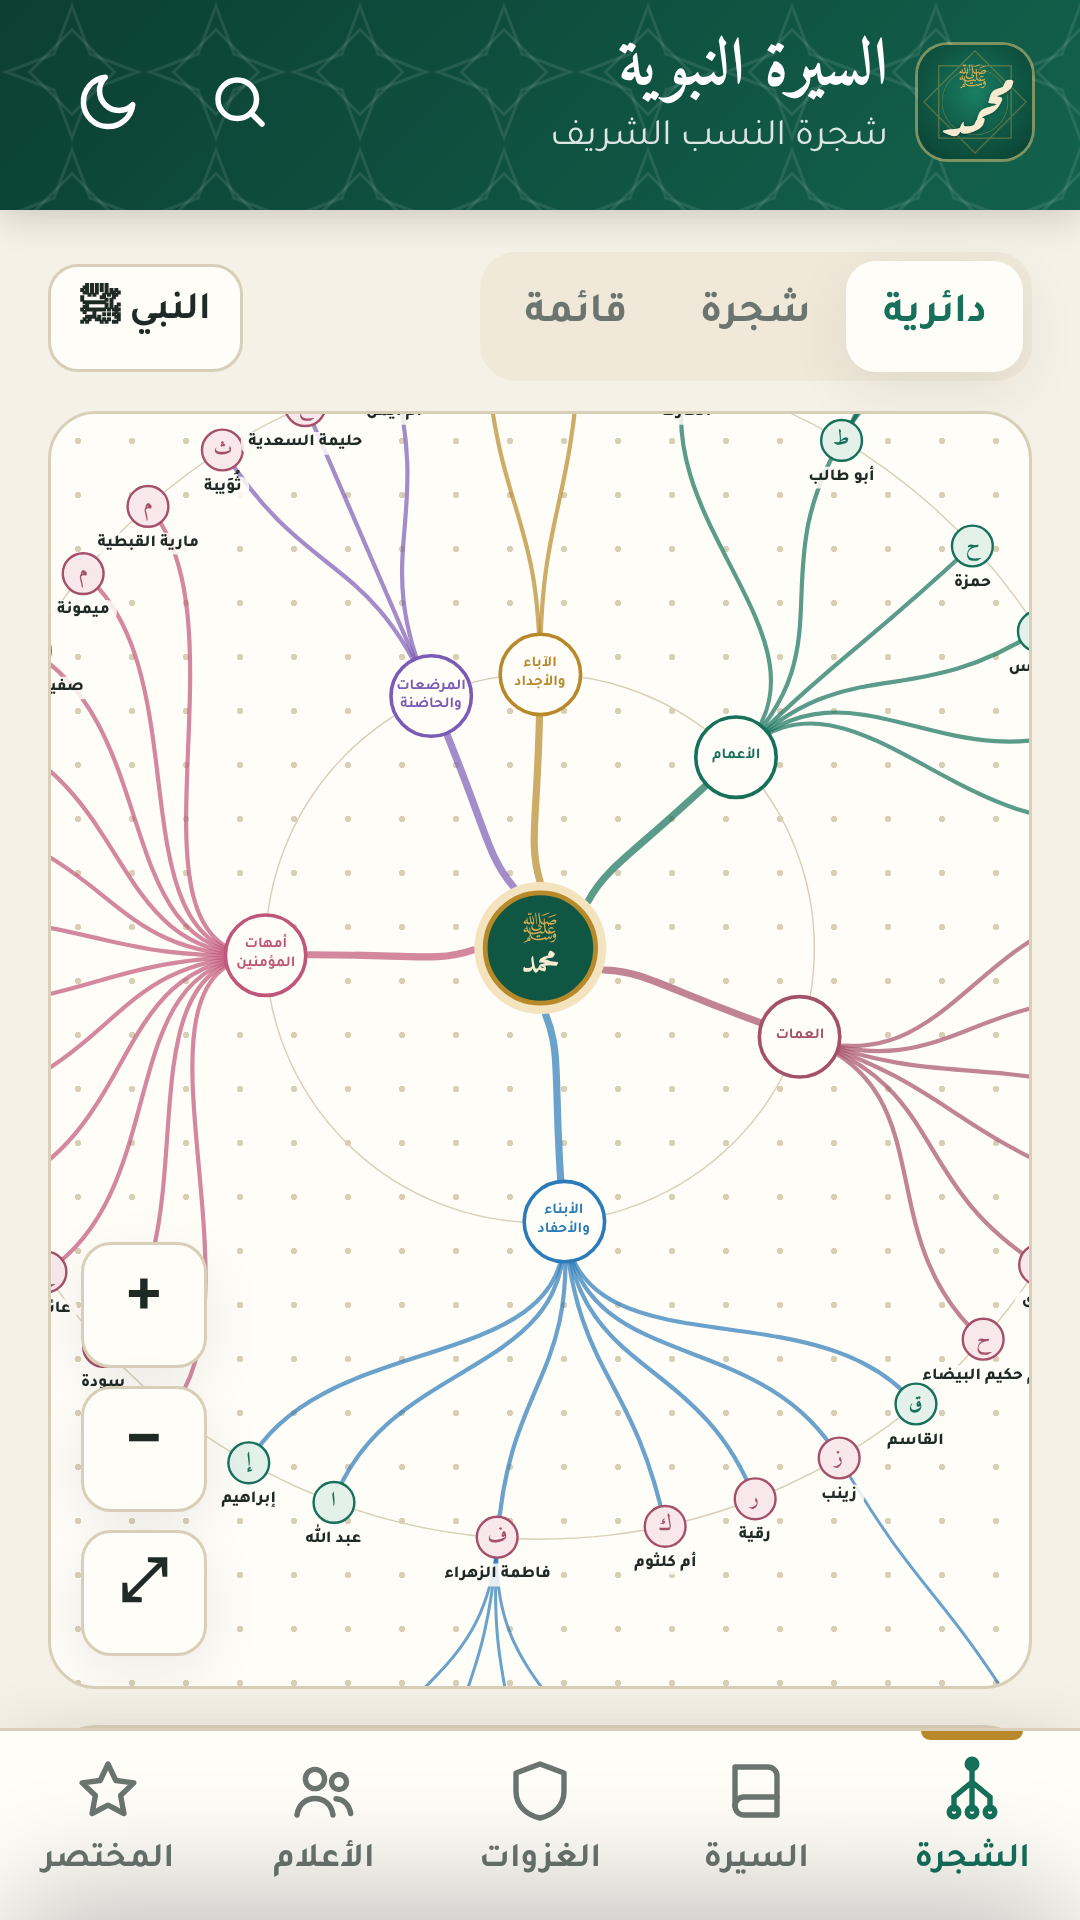
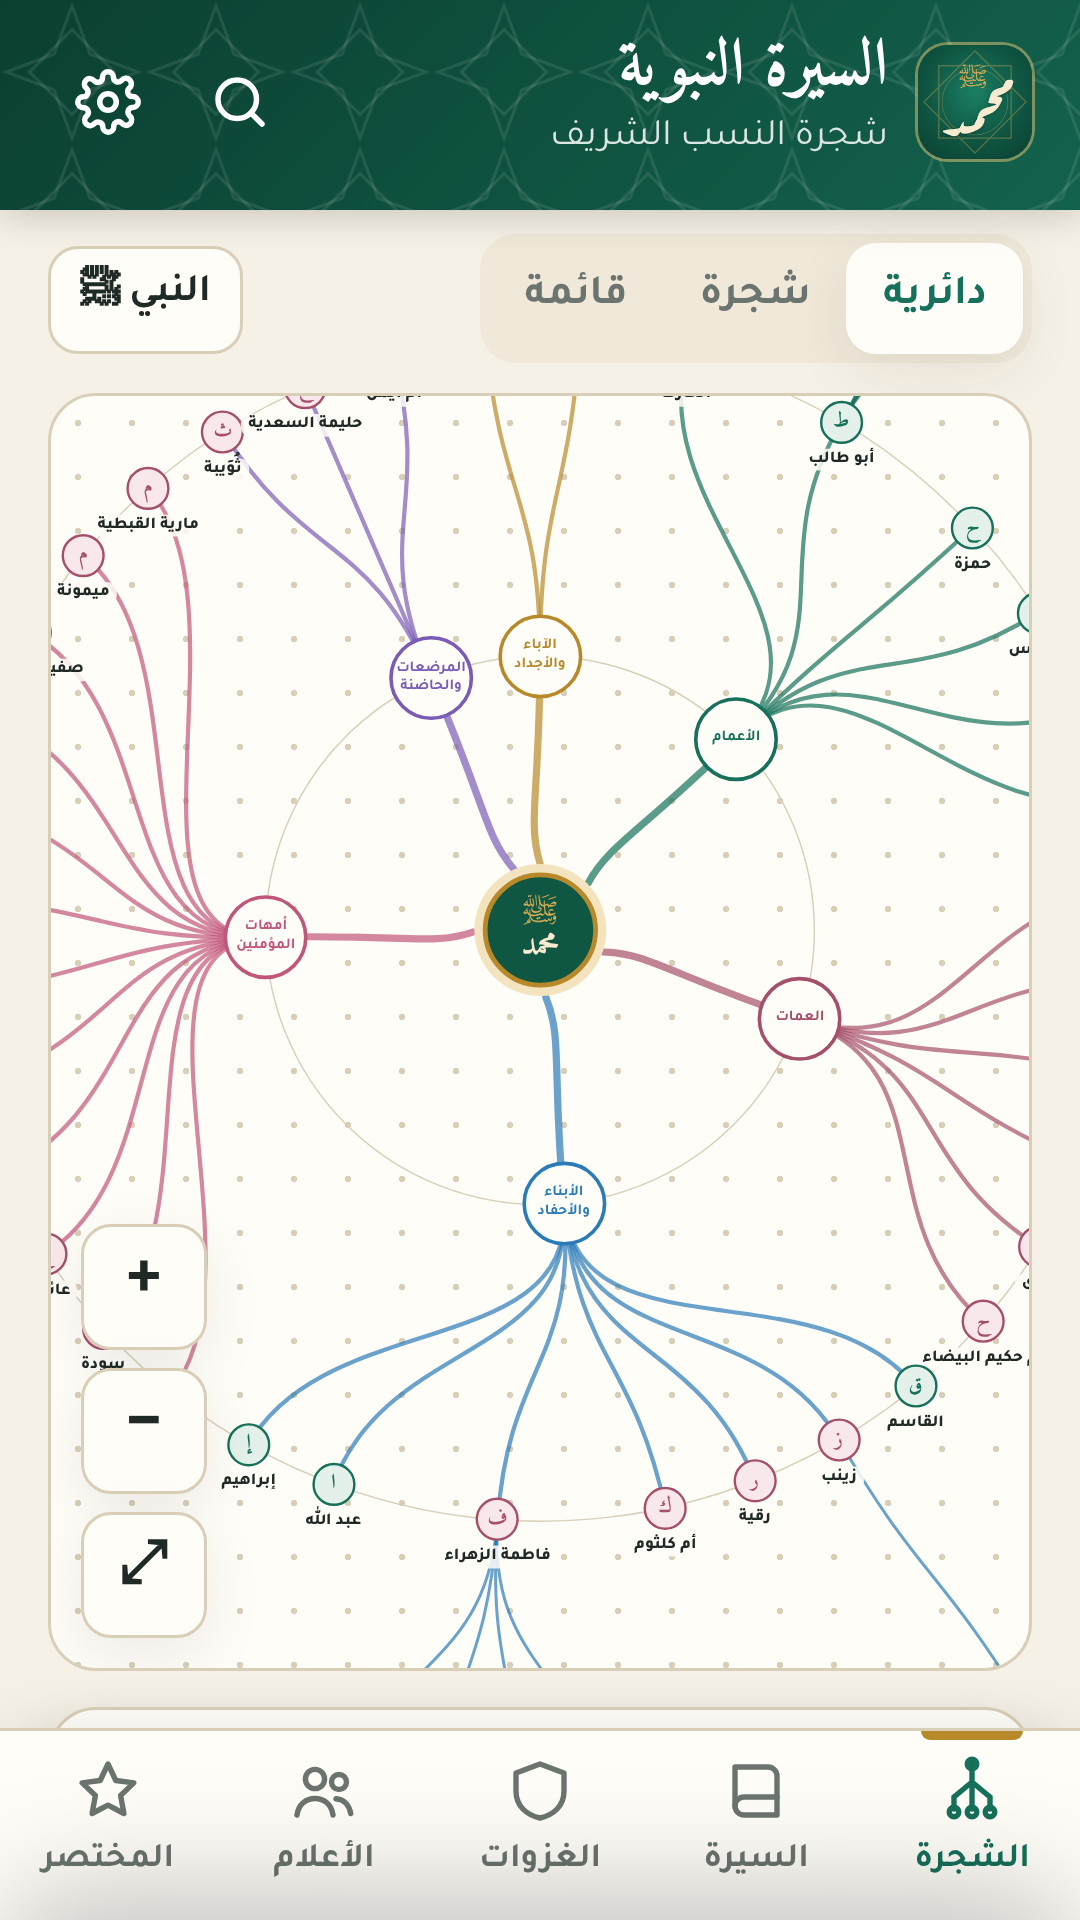
Prepare App Store release: v1.1 (2), iPhone portrait, support page
- iOS: MARKETING_VERSION 1.1 / build 2, iPhone-only and portrait-only,
  ITSAppUsesNonExemptEncryption = NO
- Support page at seerah/support/ (App Store needs a support URL)
- iPhone 6.9" screenshots (1290x2796), ExportOptions.plist for uploads,
  and a step-by-step guide in mobile/store/APP-STORE.md

Claude-Session: https://claude.ai/code/session_01KJ5BoRaNAf5zhUwMQGBpGB

diff --git a/mobile/scripts/make-store-assets.js b/mobile/scripts/make-store-assets.js
@@ -1,4 +1,4 @@
-// يولّد صور متجر Google Play: الأيقونة 512، وصورة الغلاف 1024×500، ولقطات شاشة 1080×1920
+// يولّد صور المتاجر: أيقونة Play 512، وصورة الغلاف 1024×500، ولقطات شاشة لـ Google Play و App Store
 // التشغيل: node scripts/make-store-assets.js  (يحتاج playwright متاحًا في النظام، و python3 مع Pillow)
 const { chromium } = require("playwright");
 const { execFileSync } = require("child_process");
@@ -8,7 +8,7 @@ const path = require("path");
 const ROOT = path.join(__dirname, "..");
 const WEB = path.join(ROOT, "../seerah");
 const OUT = path.join(ROOT, "store");
-fs.mkdirSync(path.join(OUT, "screenshots"), { recursive: true });
+fs.mkdirSync(OUT, { recursive: true });
 const b64 = f => fs.readFileSync(f).toString("base64");
 const FONTS = `
 @font-face{font-family:Ruqaa;font-weight:700;src:url(data:font/woff2;base64,${b64(path.join(__dirname, "fonts/aref-ruqaa-arabic-700-normal.woff2"))})}
@@ -42,25 +42,30 @@ const FONTS = `
   await fg.evaluate(() => document.fonts.ready);
   await fg.screenshot({ path: path.join(OUT, "feature-1024x500.png") });
 
-  // 3) لقطات الشاشة 1080×1920 (360×640 بمقياس 3)
-  const ctx = await b.newContext({ viewport: { width: 360, height: 640 }, deviceScaleFactor: 3, isMobile: true, hasTouch: true });
-  const p = await ctx.newPage();
-  await p.goto("file://" + path.join(WEB, "index.html"));
-  await p.evaluate(() => { localStorage.clear(); localStorage.setItem("seerah.theme", "light"); });
-  await p.reload(); await p.waitForTimeout(900);
-  const shot = async name => { await p.waitForTimeout(500); await p.screenshot({ path: path.join(OUT, "screenshots", name + ".png") }); };
-  const hideHint = () => p.evaluate(() => document.getElementById("treeHint").classList.add("gone"));
-  await hideHint(); await shot("1-tree-circle");
-  await p.tap('[data-tid="prophet"] .dot'); await shot("2-profile");
-  await p.click("#sheetClose"); await p.waitForTimeout(400);
-  await p.click('.seg-btn[data-mode="tree"]'); await p.click("#centerBtn"); await hideHint(); await shot("3-tree-classic");
-  await p.click('.nav-btn[data-view="seerah"]'); await p.click(".ev-card >> nth=0"); await shot("4-seerah");
-  await p.click('.nav-btn[data-view="ghazawat"]'); await shot("5-battles");
-  await p.click(".g-card >> nth=0"); await shot("6-badr");
-  await p.click("#sheetClose"); await p.waitForTimeout(400);
-  await p.click('.nav-btn[data-view="people"]'); await shot("7-people");
-  await p.click('.nav-btn[data-view="essentials"]'); await shot("8-essentials");
-  await p.click('.seg-btn[data-mode="circle"]').catch(() => {});
+  // 3) لقطات الشاشة: Google Play بمقاس 1080×1920، و App Store (آيفون 6.9") بمقاس 1290×2796
+  async function shots(dir, width, height) {
+    fs.mkdirSync(path.join(OUT, dir), { recursive: true });
+    const ctx = await b.newContext({ viewport: { width, height }, deviceScaleFactor: 3, isMobile: true, hasTouch: true });
+    const p = await ctx.newPage();
+    await p.goto("file://" + path.join(WEB, "index.html"));
+    await p.evaluate(() => { localStorage.clear(); localStorage.setItem("seerah.theme", "light"); });
+    await p.reload(); await p.waitForTimeout(900);
+    const shot = async name => { await p.waitForTimeout(500); await p.screenshot({ path: path.join(OUT, dir, name + ".png") }); };
+    const hideHint = () => p.evaluate(() => document.getElementById("treeHint").classList.add("gone"));
+    await hideHint(); await shot("1-tree-circle");
+    await p.tap('[data-tid="prophet"] .dot'); await shot("2-profile");
+    await p.click("#sheetClose"); await p.waitForTimeout(400);
+    await p.click('.seg-btn[data-mode="tree"]'); await p.click("#centerBtn"); await hideHint(); await shot("3-tree-classic");
+    await p.click('.nav-btn[data-view="seerah"]'); await p.click(".ev-card >> nth=0"); await shot("4-seerah");
+    await p.click('.nav-btn[data-view="ghazawat"]'); await shot("5-battles");
+    await p.click(".g-card >> nth=0"); await shot("6-badr");
+    await p.click("#sheetClose"); await p.waitForTimeout(400);
+    await p.click('.nav-btn[data-view="people"]'); await shot("7-people");
+    await p.click('.nav-btn[data-view="essentials"]'); await shot("8-essentials");
+    await ctx.close();
+  }
+  await shots("screenshots", 360, 640);
+  await shots("ios-screenshots", 430, 932);
   await b.close();
   console.log("store assets written to", OUT);
 })();

diff --git a/seerah/support/index.html b/seerah/support/index.html
@@ -1,0 +1,61 @@
+<!doctype html>
+<html lang="ar" dir="rtl">
+<head>
+<meta charset="utf-8">
+<meta name="viewport" content="width=device-width, initial-scale=1">
+<title>الدعم — السيرة النبوية</title>
+<meta name="description" content="الدعم والمساعدة لتطبيق السيرة النبوية.">
+<style>
+:root { --bg:#f6f1e6; --card:#fffdf8; --text:#1f2a26; --muted:#6b746f; --brand:#16705a; --line:#d9cfb9; }
+@media (prefers-color-scheme: dark) { :root { --bg:#0e1513; --card:#16201d; --text:#e9ece6; --muted:#9aa6a0; --brand:#3fb08d; --line:#2d3b36; } }
+* { box-sizing: border-box; }
+body { margin:0; background:var(--bg); color:var(--text); font:16px/1.8 -apple-system,system-ui,"Segoe UI",Roboto,"Noto Sans Arabic",sans-serif; padding:24px 16px 48px; }
+main { max-width:760px; margin:0 auto; }
+header { text-align:center; margin-bottom:20px; }
+header img { width:72px; height:72px; border-radius:18px; }
+h1 { margin:8px 0 0; font-size:26px; }
+.date { color:var(--muted); font-size:14px; }
+section { background:var(--card); border:1px solid var(--line); border-radius:16px; padding:6px 20px 14px; margin-bottom:16px; }
+h2 { font-size:18px; color:var(--brand); margin:18px 0 4px; }
+p, li { margin:6px 0; }
+ul { padding-inline-start:20px; }
+a { color:var(--brand); }
+</style>
+</head>
+<body>
+<main>
+<header>
+  <img src="../icons/icon-192.png" alt="">
+  <h1>الدعم · Support</h1>
+  <div class="date">تطبيق السيرة النبوية · Seerah app</div>
+</header>
+
+<section lang="ar" dir="rtl">
+<h2>أبلغ عن مشكلة أو اقتراح</h2>
+<p>أسرع طريقة: من داخل التطبيق افتح <b>الإعدادات ⚙ ← أبلغ عن مشكلة</b>، وهتتفتح رسالة جاهزة فيها نسخة التطبيق ونوع جهازك.</p>
+<p>أو اكتب لنا هنا: <a href="https://github.com/mohamedfouadtaha-png/fouad/issues">github.com/mohamedfouadtaha-png/fouad/issues</a></p>
+<h2>أسئلة شائعة</h2>
+<ul>
+  <li><b>هل التطبيق يحتاج إنترنت؟</b> لا، يعمل بالكامل بدون إنترنت.</li>
+  <li><b>كيف أكبّر الشجرة؟</b> بإصبعين، أو بأزرار + و − في ركن الشجرة، وزر ⤢ يعرضها كاملة.</li>
+  <li><b>كيف أفعّل التذكير اليومي؟</b> من الإعدادات ⚙ أو من كارت «من السيرة اليوم» في تبويب المختصر، ثم اسمح بالإشعارات.</li>
+  <li><b>وجدت معلومة تحتاج مراجعة</b>: أرسلها لنا مع المصدر وسنراجعها.</li>
+</ul>
+<p><a href="../privacy/">سياسة الخصوصية</a></p>
+</section>
+
+<section lang="en" dir="ltr">
+<h2>Report a problem or suggestion</h2>
+<p>Fastest: in the app open <b>Settings ⚙ → Report a problem</b>; a message with your app version and device opens ready to send.</p>
+<p>Or write to us: <a href="https://github.com/mohamedfouadtaha-png/fouad/issues">github.com/mohamedfouadtaha-png/fouad/issues</a></p>
+<h2>FAQ</h2>
+<ul>
+  <li><b>Does it need internet?</b> No, it works fully offline.</li>
+  <li><b>How do I zoom the tree?</b> Pinch with two fingers, or use the + / − buttons; ⤢ shows the whole tree.</li>
+  <li><b>Daily reminder?</b> Turn it on in Settings ⚙ or on the “Today” card, then allow notifications.</li>
+</ul>
+<p><a href="../privacy/">Privacy Policy</a></p>
+</section>
+</main>
+</body>
+</html>

diff --git a/mobile/store/APP-STORE.md b/mobile/store/APP-STORE.md
@@ -1,0 +1,85 @@
+# نشر «السيرة النبوية» على App Store
+
+## الجاهز في المشروع
+- النسخة **1.1 (build 2)**، للآيفون فقط، وبالطول بس (Portrait). كده مش محتاجين صور شاشة للآيباد. مستخدمين الآيباد يقدروا يشغّلوا نسخة الآيفون عادي.
+- `ITSAppUsesNonExemptEncryption = NO` في Info.plist، عشان سؤال التشفير ما يتكررش مع كل رفع.
+- الأيقونة 1024 من غير شفافية، ودي شرط من Apple.
+
+| المطلوب في App Store Connect | الجاهز |
+|---|---|
+| Screenshots (iPhone 6.9") | `ios-screenshots/*.png`، 8 صور مقاس 1290×2796 |
+| Privacy Policy URL | `https://mohamedfouadtaha-png.github.io/fouad/seerah/privacy/` |
+| Support URL | `https://mohamedfouadtaha-png.github.io/fouad/seerah/support/` |
+
+---
+
+## 1) Xcode على الماك
+**Xcode ← Settings ← Accounts**: لازم يظهر حسابك وتحته فريق **مش** مكتوب جنبه "Personal Team". الـ **Team ID** بتاع الحساب المدفوع ممكن يكون مختلف عن القديم.
+
+## 2) إنشاء التطبيق في App Store Connect
+https://appstoreconnect.apple.com ← **Apps ← + ← New App**
+- **Platform:** iOS
+- **Name:** `السيرة النبوية`. لو قالك الاسم مستخدم، جرّب `السيرة النبوية - شجرة النسب`. الحد الأقصى 30 حرف.
+- **Primary language:** Arabic
+- **Bundle ID:** `com.mohamedfouad.seerah`. لو مش ظاهر في القايمة، سجّله الأول من developer.apple.com ← Certificates, IDs & Profiles ← Identifiers ← +، أو Xcode هيسجّله لوحده أول ما ترفع.
+- **SKU:** `seerah-ios-001`
+- **User Access:** Full Access
+
+## 3) الأرشفة والرفع (جلسة الماك)
+```bash
+cd mobile && npm run sync
+xcodebuild -project ios/App/App.xcodeproj -scheme App -configuration Release \
+  -destination 'generic/platform=iOS' -archivePath ios/build/Seerah.xcarchive \
+  -allowProvisioningUpdates DEVELOPMENT_TEAM=<TEAM_ID> CODE_SIGN_STYLE=Automatic archive
+xcodebuild -exportArchive -archivePath ios/build/Seerah.xcarchive \
+  -exportOptionsPlist ExportOptions.plist -allowProvisioningUpdates
+```
+أو من Xcode نفسه: **Product ← Archive ← Distribute App ← App Store Connect ← Upload**.
+بعد الرفع، الـ build بياخد من 5 لـ 30 دقيقة لحد ما يظهر في تبويب **TestFlight**.
+
+## 4) TestFlight
+- **Internal Testing:** ضيف نفسك، ونزّل تطبيق **TestFlight** على الآيفون، وجرّب. الاختبار الداخلي مش محتاج مراجعة من Apple.
+- لو عاوز تبعته لناس من برّه فريقك (External Testing)، ده محتاج مراجعة سريعة من Apple الأول.
+
+## 5) App Information / Pricing / Privacy
+| الخانة | القيمة |
+|---|---|
+| Category | Primary: **Books** · Secondary: **Education** |
+| Age Rating | جاوب **None / No** على كل الأسئلة، والنتيجة **4+** |
+| Content Rights | No, it does not contain third-party content that requires rights |
+| App Privacy | **Data Not Collected** |
+| Pricing | **Free** · Availability: All countries |
+
+## 6) صفحة الإصدار 1.1
+**Subtitle** (30 حرف):
+```
+شجرة النسب والغزوات والصحابة
+```
+**Promotional Text** (170 حرف):
+```
+سيرة النبي ﷺ مبسطة: شجرة نسب دائرية تفاعلية، والغزوات، والصحابة، وحدث جديد من السيرة كل يوم. بدون إنترنت وبدون إعلانات.
+```
+**Keywords** (100 حرف، مفصولة بفواصل من غير مسافات):
+```
+سيرة,النبي,محمد,رسول,الله,صحابة,غزوات,بدر,أحد,نسب,شجرة,أمهات المؤمنين,إسلام,تاريخ,قصص,الهجرة
+```
+**Description:** نفس الوصف الطويل اللي في `GOOGLE-PLAY.md`، القسم 4.
+
+**Copyright:** `2026 <اسمك أو اسم الحساب>`
+
+**App Review Information:**
+- Sign-in required: **No**
+- Contact: اسمك، وتليفونك، وإيميلك. دول بيوصلوا لفريق المراجعة بس، ومش بيظهروا للناس.
+- **Notes** (بالإنجليزي عشان المراجِع):
+```
+Seerah is an educational app about the life of Prophet Muhammad (peace be upon him).
+All content (interactive family tree with pinch-zoom, timeline, battles, companions, quiz) is bundled in the app and works fully offline.
+Native features: optional daily local notification with an event from the Seerah (Settings > Daily reminder), offline storage of favorites.
+No account, no ads, no data collection.
+```
+
+## 7) الإرسال للمراجعة
+في صفحة الإصدار: **Build ← +**، واختار build 2، وبعدين **Add for Review** وبعدها **Submit for Review**.
+المراجعة غالبًا بتاخد من 24 لـ 48 ساعة. ولو اترفض، Apple بتبعت السبب، ونصلّحه ونرفع build جديد.
+
+> **كل تحديث جاي:** زوّد `CURRENT_PROJECT_VERSION` (2 ← 3) دايمًا، وغيّر `MARKETING_VERSION` (1.1 ← 1.2) لو الإصدار نفسه اتغير. الاتنين في Xcode، أو في ملف `project.pbxproj`.
